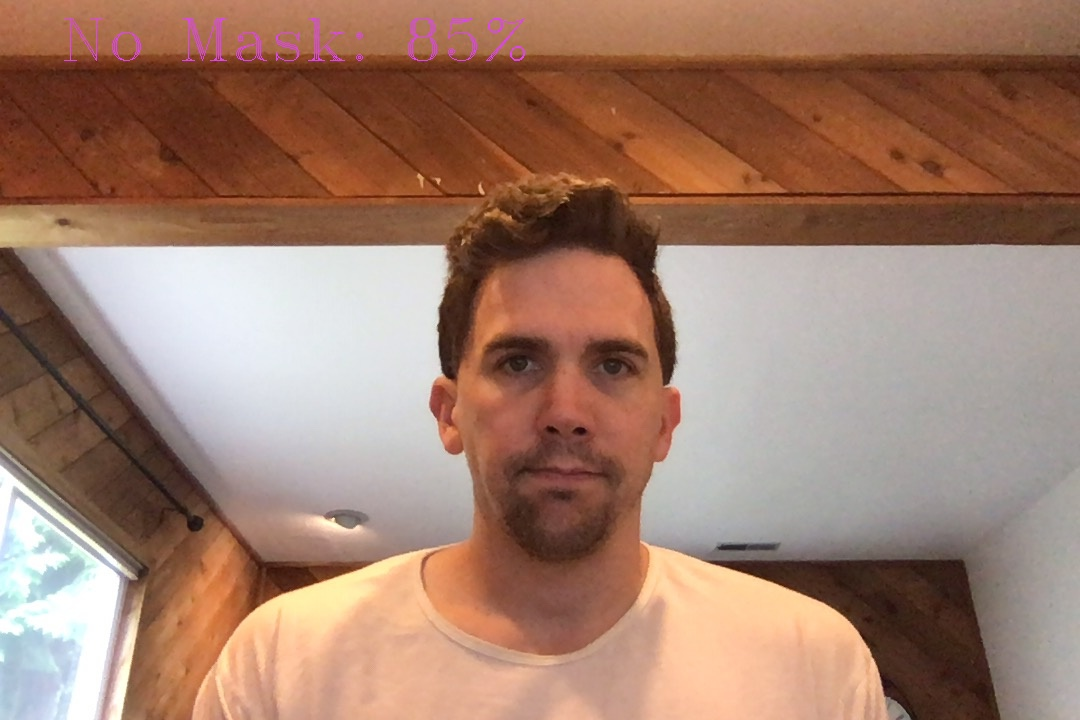
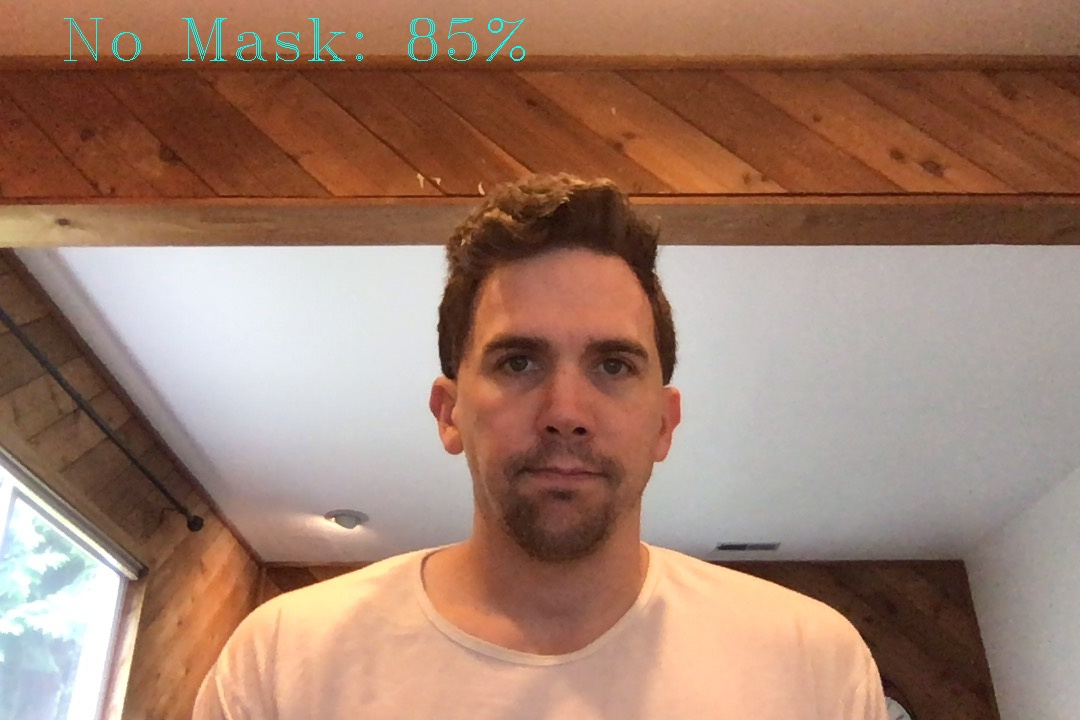
edit readme

Changed region(s): [[0.0611, 0.0, 0.3361, 0.0917], [0.3667, 0.0, 0.4889, 0.0917]]

diff --git a/src/predict_images.py b/src/predict_images.py
@@ -34,7 +34,7 @@ def predict(image, file_name):
         color = (255, 255, 0)
     else:
         label = "No Mask"
-        color = (245, 66, 221)
+        color = (255, 255, 0)
     
     # include the probability in the label
     label = "{}: {}%".format(label, int(max(mask, without_mask) * 100))

diff --git a/README.md b/README.md
@@ -12,7 +12,7 @@ COVID-19 Face Mask and Social Distancing
 - [Modeling](#modeling)
   - [Transfer Learning](#transfer-learning)
   - [Application](#application)
-- [Face Capture and Video Processing](#future-considerations)
+- [Face Capture and Video Processing](#face-capture-and-video-processing)
   - [Face Capture](#face-capture)
   - [Video Processing](#video-processing)
 - [License](#license)
@@ -37,7 +37,21 @@ COVID-19 Face Mask and Social Distancing
 
 <img align="right" src="https://github.com/tylerjwoods/covid19_compliance/blob/master/predicted_images/first_tyler.jpg">
 
+The model does a good job of identifying wearing a mask. But what about no mask?
+
 <img align="right" src="https://github.com/tylerjwoods/covid19_compliance/blob/master/predicted_images/first_no_mask_tyler.jpg">
+
+Here we see that, again, the model is doing a good job of predicting no mask. So what about if there's an image with both a person wearing a mask and a person not wearing a mask?
+
+<img align="right" src="https://github.com/tylerjwoods/covid19_compliance/blob/master/predicted_images/first_tyler_malia.jpg">
+
+Since the model is binary, i.e., it will predict 'mask' if it finds a mask anywhere in the image, the model found the face mask and predicted face mask. 
+
+The next step would be for detecting faces. The program would be then be broken down into two steps:
+
+1. Find faces in images
+
+2. Predict if that face is wearing a mask
 
 ## Face Capture and Video Processing
 
